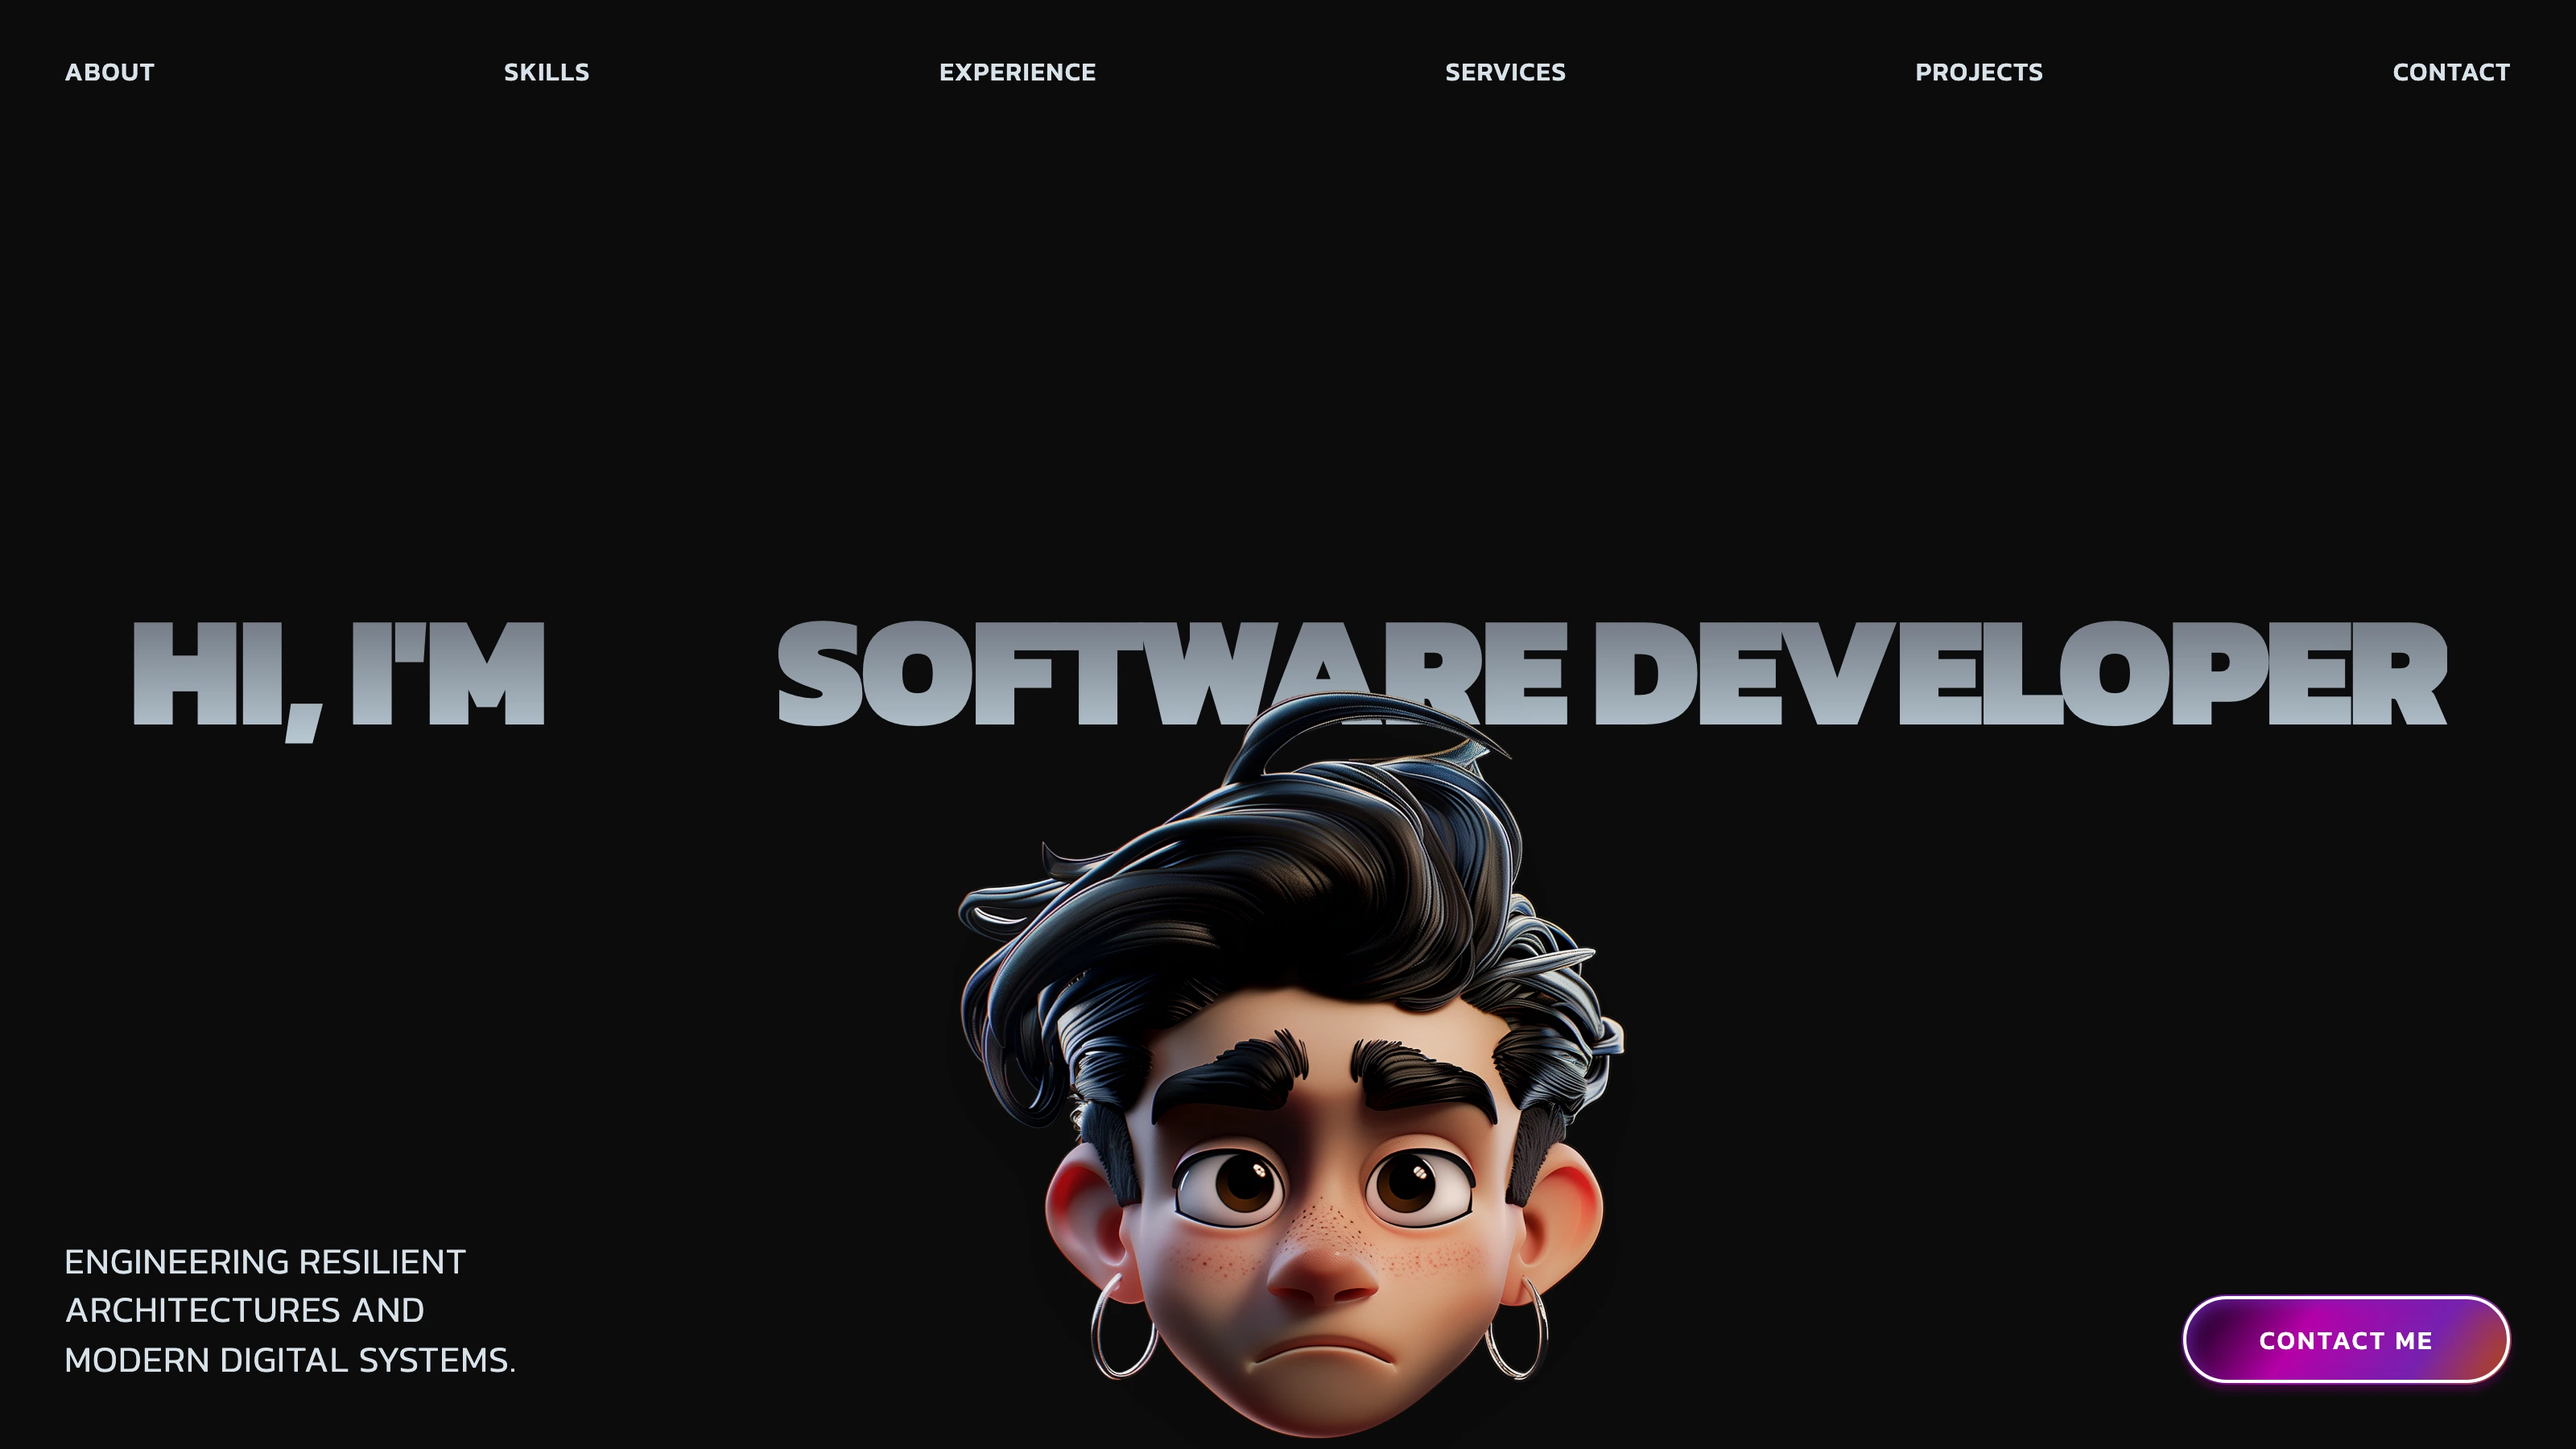
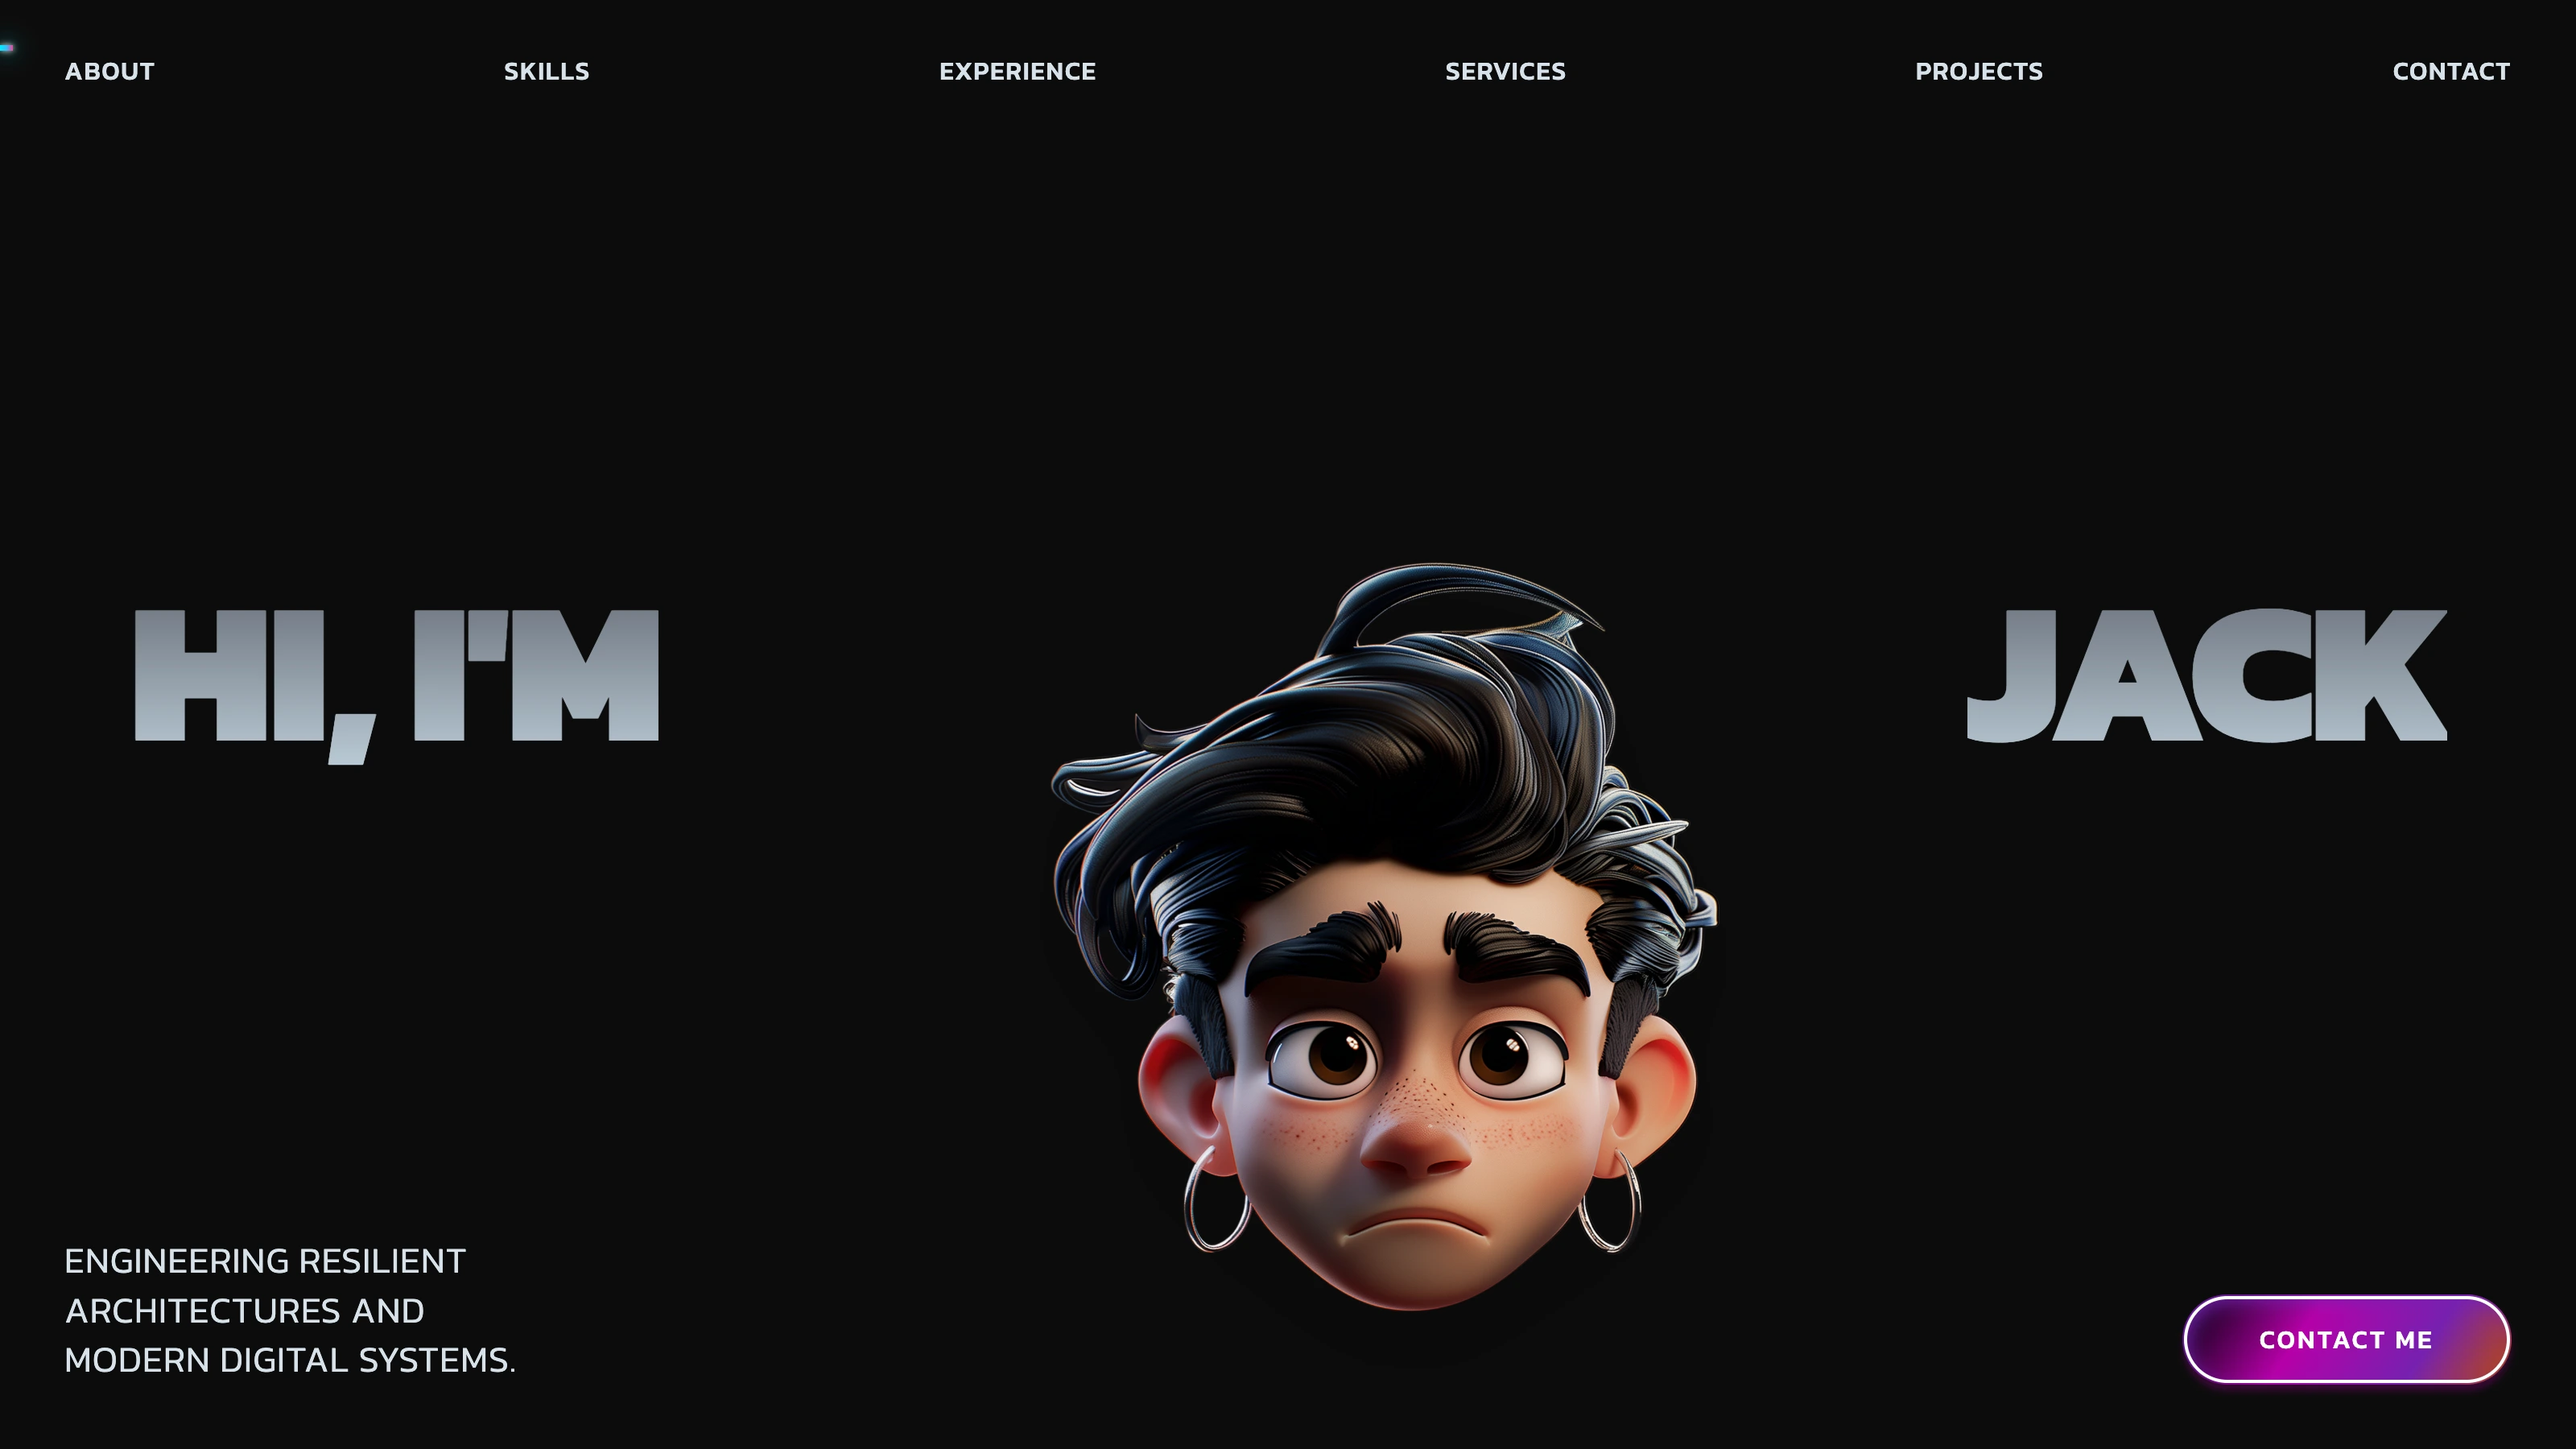
fix(templates): enable hardware WebGL and wait for full hero render before capturing template previews

Changed region(s): [[0.0312, 0.3733, 0.9688, 0.9956]]

diff --git a/scripts/capture-template-heroes.js b/scripts/capture-template-heroes.js
@@ -18,10 +18,47 @@ async function captureTemplateHeroes() {
   app.use(express.static(path.join(__dirname, '..', 'public')));
   app.use(express.static(path.join(__dirname, '..', 'web')));
 
+  const templates = [
+    { 
+      id: 'jack-3d-creator', 
+      filename: 'jack-3d-creator-hero.webp', 
+      fallbackJpg: 'jack-3d-creator-hero.jpg',
+      profile: {
+        name: 'Jack',
+        role: 'Creative Developer & 3D Designer',
+        bio: 'Crafting spatial web experiences with WebGL, Three.js, and physics.'
+      },
+      urlQuery: ''
+    },
+    { 
+      id: 'nadia-brand', 
+      filename: 'nadia-brand-hero.webp', 
+      fallbackJpg: 'nadia-brand-hero.jpg',
+      profile: {
+        name: 'Nadia Okonjo',
+        role: 'Keynote Speaker · Executive Advisor · Author',
+        bio: 'I help large organisations make decisions faster without making them worse.'
+      },
+      urlQuery: ''
+    },
+    { 
+      id: 'kage-temple', 
+      filename: 'kage-temple-hero.webp', 
+      fallbackJpg: 'kage-temple-hero.jpg',
+      profile: {
+        name: 'Kage Kyoto',
+        role: 'Master Craftsman & Systems Technologist',
+        bio: 'Kyoto mountain sanctuary with live Shinto Sanmon, vermilion blood moon, and zen koi.'
+      },
+      urlQuery: '?shot=0'
+    }
+  ];
+
   // Render endpoints for each template
   app.get('/preview/:templateId', (req, res) => {
     const templateId = req.params.templateId;
-    const result = TemplateRegistry.render(templateId, {}, { isStaticPreview: true });
+    const config = templates.find(t => t.id === templateId) || {};
+    const result = TemplateRegistry.render(templateId, config.profile || {}, { isStaticPreview: true });
     const html = typeof result === 'string' ? result : (result.html || '');
     res.setHeader('Content-Type', 'text/html; charset=utf-8');
     res.send(html);
@@ -33,22 +70,17 @@ async function captureTemplateHeroes() {
 
   const browser = await puppeteer.launch({
     executablePath: chromePath,
-    headless: 'new',
+    headless: false, // Run with window context to ensure macOS Metal GPU WebGL acceleration
     args: [
       '--no-sandbox',
       '--disable-setuid-sandbox',
       '--window-size=1600,900',
       '--enable-webgl',
-      '--use-gl=swiftshader',
+      '--ignore-gpu-blocklist',
+      '--enable-gpu-rasterization',
       '--allow-file-access-from-files'
     ]
   });
-
-  const templates = [
-    { id: 'jack-3d-creator', filename: 'jack-3d-creator-hero.webp', fallbackJpg: 'jack-3d-creator-hero.jpg' },
-    { id: 'nadia-brand', filename: 'nadia-brand-hero.webp', fallbackJpg: 'nadia-brand-hero.jpg' },
-    { id: 'kage-temple', filename: 'kage-temple-hero.webp', fallbackJpg: 'kage-temple-hero.jpg' }
-  ];
 
   const targetDirs = [
     path.join(__dirname, '..', 'public', 'assets', 'templates'),
@@ -64,11 +96,28 @@ async function captureTemplateHeroes() {
     const page = await browser.newPage();
     await page.setViewport({ width: 1600, height: 900, deviceScaleFactor: 2 });
 
-    const url = `http://localhost:${PORT}/preview/${t.id}`;
-    await page.goto(url, { waitUntil: 'networkidle2', timeout: 30000 });
+    const url = `http://localhost:${PORT}/preview/${t.id}${t.urlQuery || ''}`;
+    await page.goto(url, { waitUntil: 'networkidle2', timeout: 35000 });
 
-    // Wait for fonts, images, WebGL canvases, and initial animations to mount
-    await new Promise((r) => setTimeout(r, 2500));
+    // Wait for fonts to be loaded
+    await page.evaluateHandle('document.fonts.ready').catch(() => {});
+
+    // Wait for all images in the page to complete loading
+    await page.waitForFunction(() => {
+      const imgs = Array.from(document.images);
+      return imgs.every(img => img.complete);
+    }, { timeout: 15000 }).catch(() => {});
+
+    // For Kage, wait for WebGL procedural engine to finish boot and paint multiple frames
+    if (t.id === 'kage-temple') {
+      console.log('Waiting for Kage WebGL engine to finish procedural generation & paint frames...');
+      await page.waitForFunction(() => window.__kage && window.__kage.renderer, { timeout: 30000 }).catch(() => {});
+      await new Promise((r) => setTimeout(r, 6500));
+    } else if (t.id === 'jack-3d-creator') {
+      await new Promise((r) => setTimeout(r, 4500));
+    } else {
+      await new Promise((r) => setTimeout(r, 4000));
+    }
 
     // Capture the top hero viewport
     for (const dir of targetDirs) {
